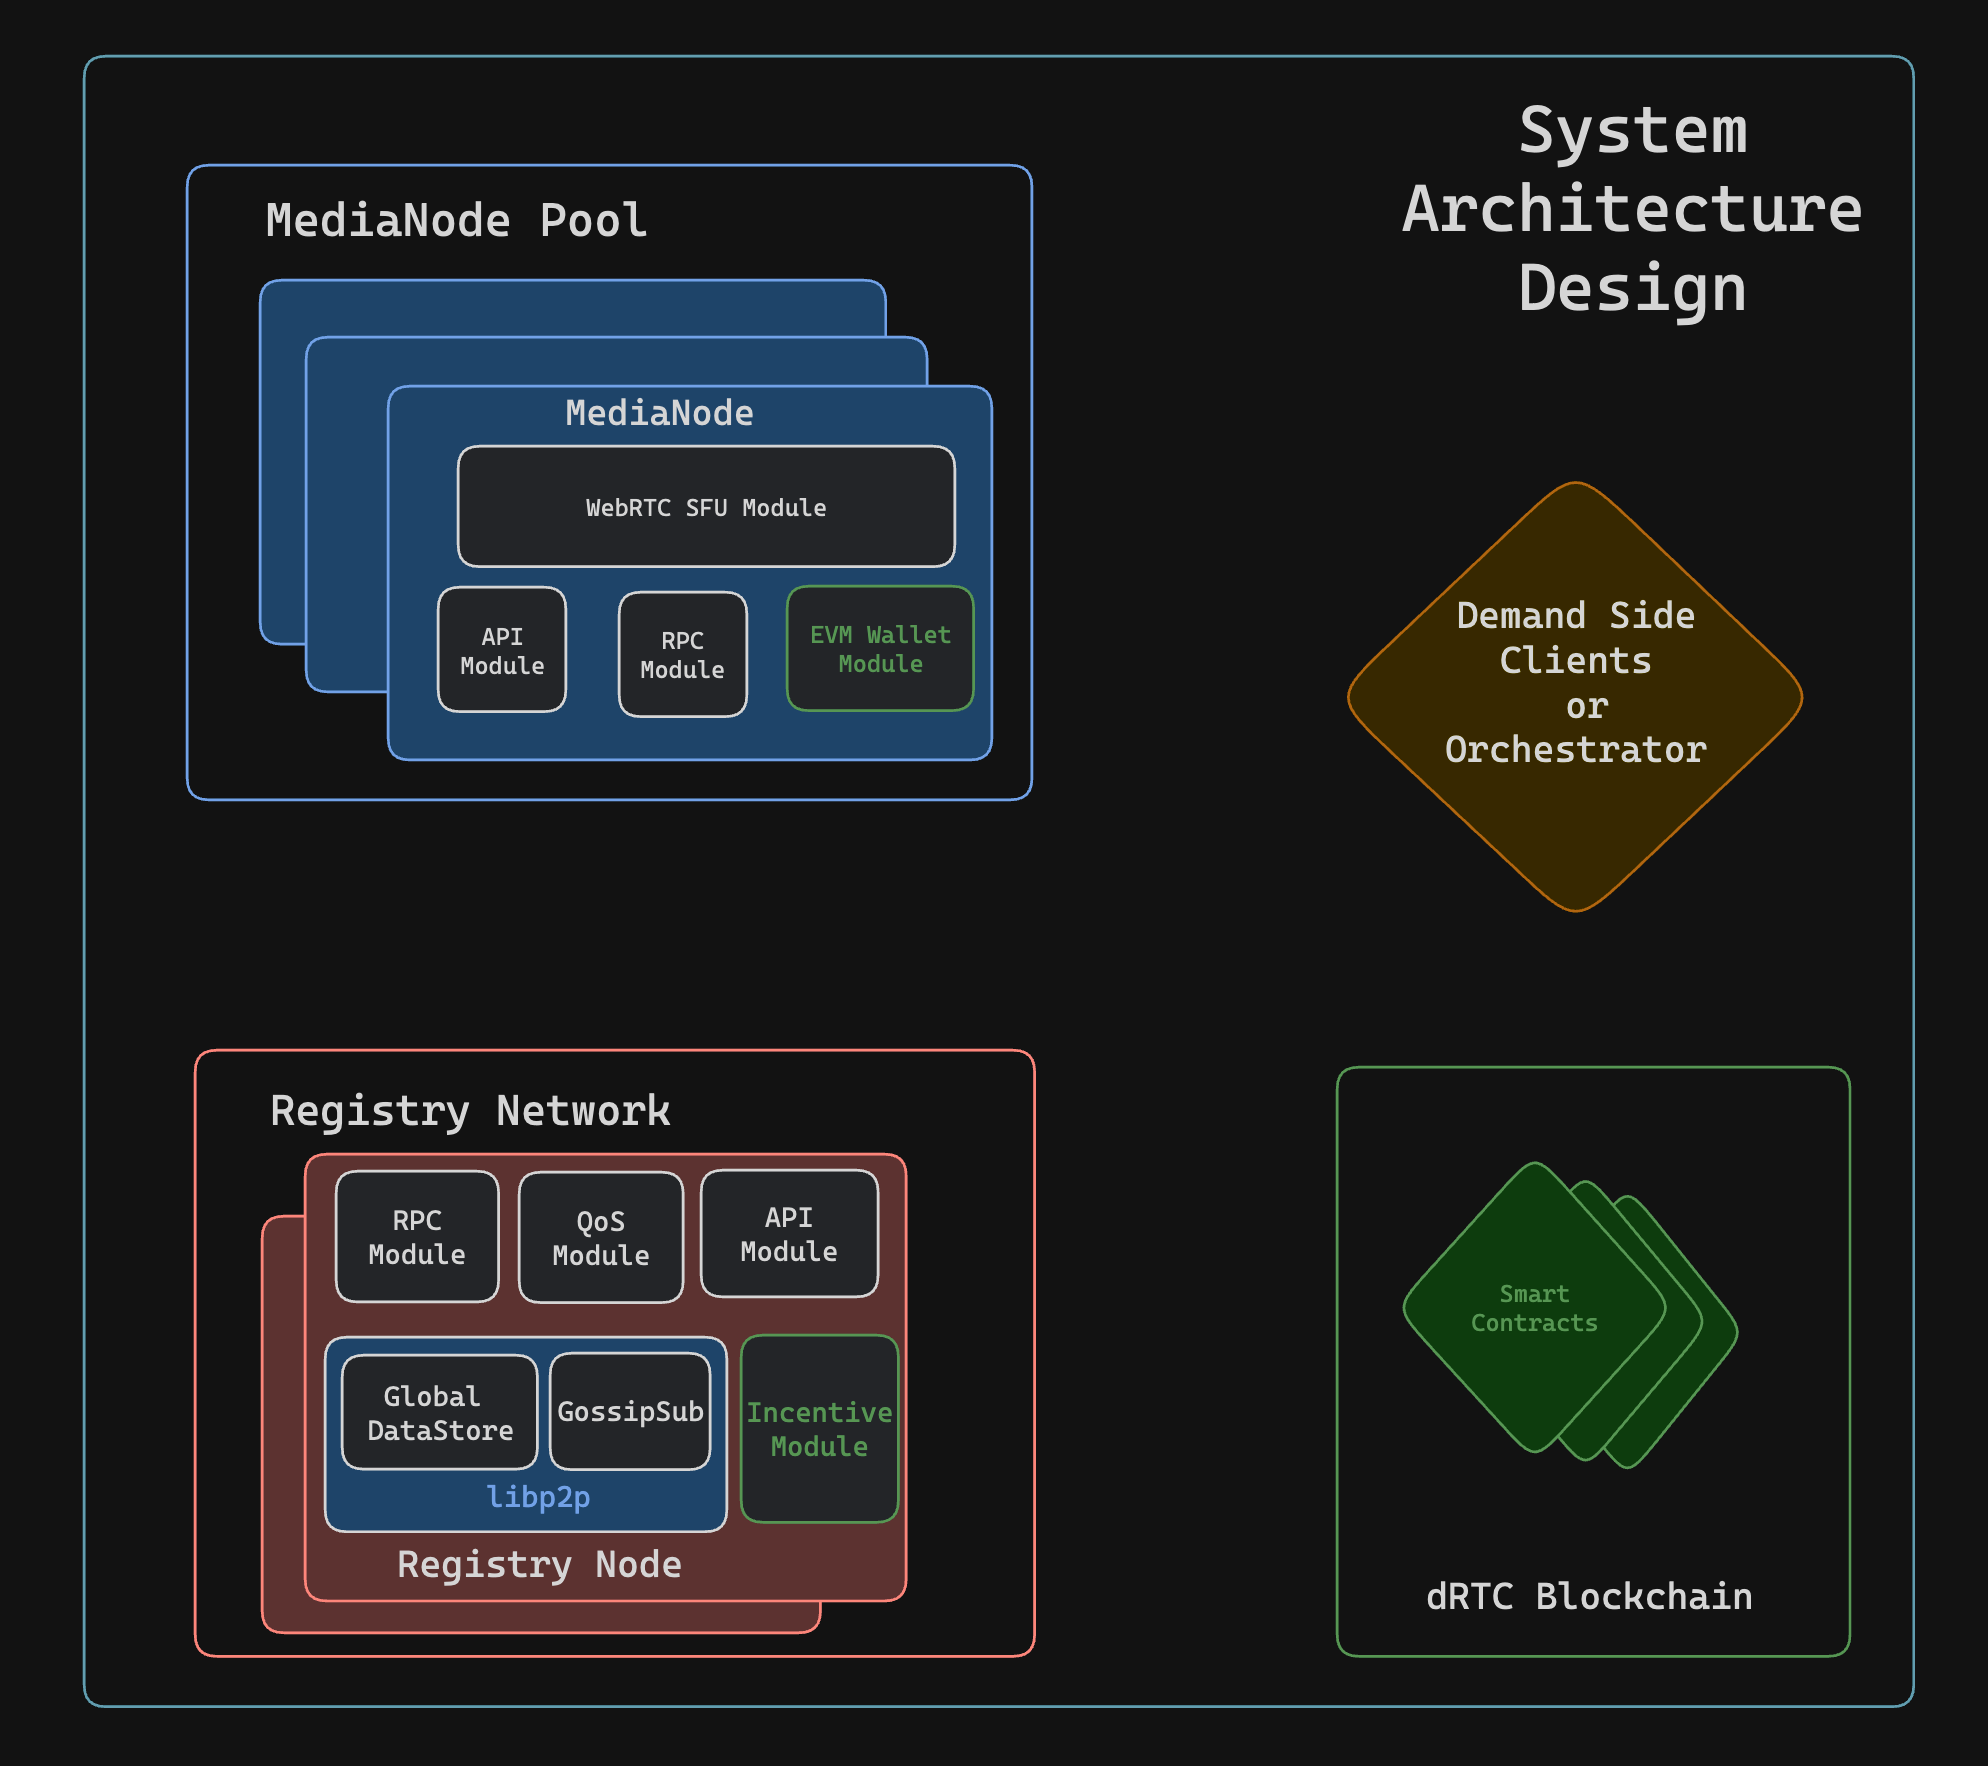
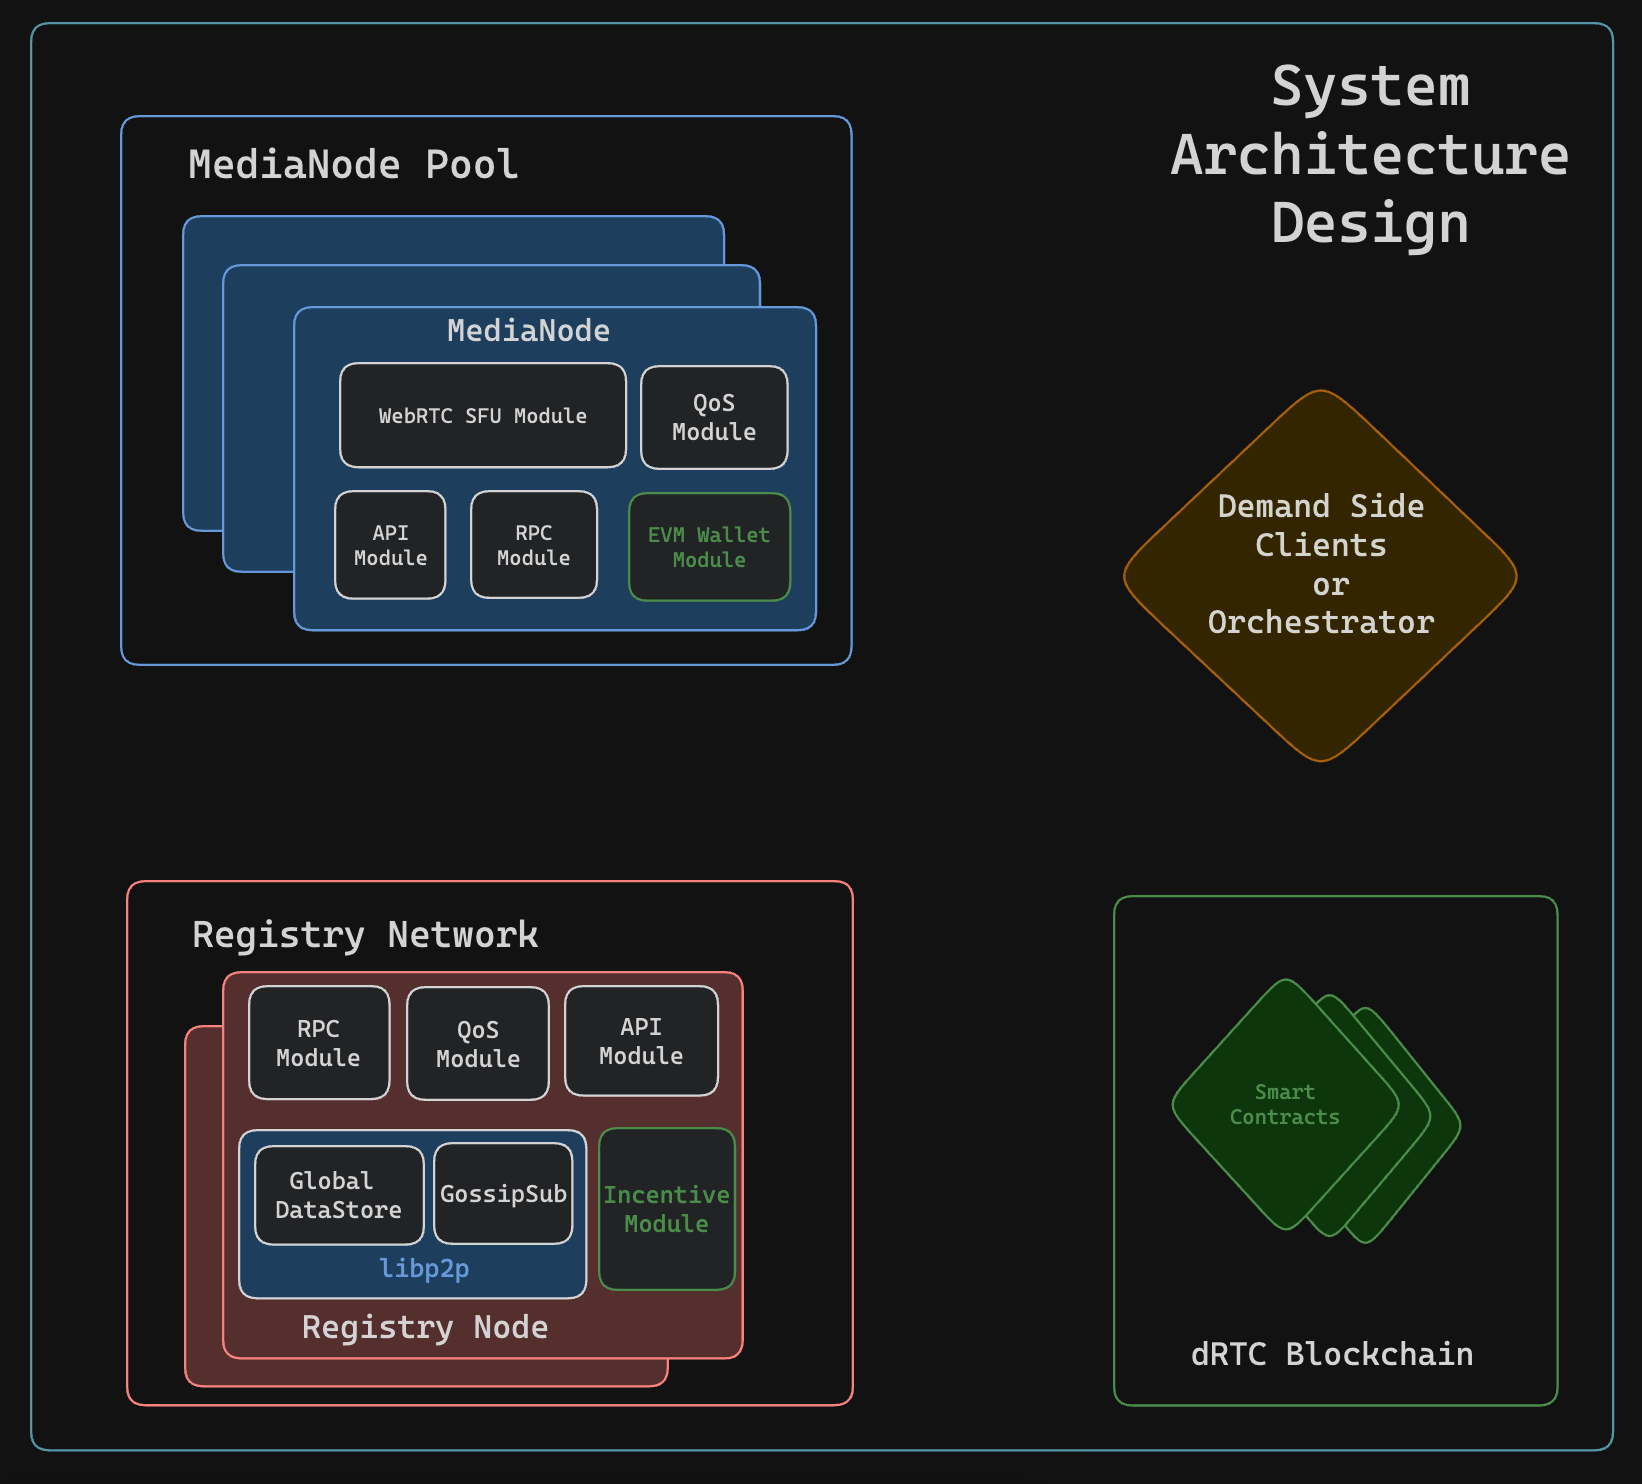
add: media node (#5)
* replace system arch

* add registry

* use callout

* rm dsstore

---------

diff --git a/app/page.tsx b/app/page.tsx
@@ -8,20 +8,21 @@ export default function HomePage() {
   return (
     <>
       <Head>
-        <title>
-          Huddle01 | Specs
-        </title>
+        <title>Huddle01 | Specs</title>
       </Head>
-    <main className="flex h-screen flex-col justify-center text-center">
-      <h1 className="mb-4 text-2xl font-bold">Hello World</h1>
-      <p className="text-muted-foreground">
-        You can open
-        <Link href="/docs" className="text-foreground font-semibold underline">
-          /specs
-        </Link>
-        and see the documentation.
-      </p>
-    </main>
+      <main className="flex h-screen flex-col justify-center text-center">
+        <h1 className="mb-4 text-2xl font-bold">Hello World</h1>
+        <p className="text-muted-foreground">
+          You can open
+          <Link
+            href="/docs"
+            className="text-foreground font-semibold underline"
+          >
+            /specs
+          </Link>
+          and see the documentation.
+        </p>
+      </main>
     </>
   );
 }

diff --git a/app/layout.config.tsx b/app/layout.config.tsx
@@ -10,7 +10,7 @@ export const baseOptions: BaseLayoutProps = {
     url: '/specs',
     transparentMode: 'none',
     title: (
-      <div className='flex items-center w-full justify-center gap-2' >
+      <div className="flex items-center w-full justify-center gap-2">
         <Image
           alt="huddle01"
           src="/logo.png"
@@ -18,10 +18,8 @@ export const baseOptions: BaseLayoutProps = {
           height={40}
           className="w-full pb-1 pl-1 flex-auto align-center"
         />
-        <div className='flex font-mono gap-2 text-xl font-bold -translate-y-[1px]' >
-          <p className=' w-full' >
-            Huddle01
-          </p>
+        <div className="flex font-mono gap-2 text-xl font-bold -translate-y-[1px]">
+          <p className=" w-full">Huddle01</p>
           <p>Specs</p>
         </div>
       </div>

diff --git a/app/layout.tsx b/app/layout.tsx
@@ -11,7 +11,6 @@ const inter = Inter({
 export default function Layout({ children }: { children: ReactNode }) {
   return (
     <html lang="en" className={inter.className} suppressHydrationWarning>
-
       <body>
         <RootProvider>{children}</RootProvider>
       </body>
